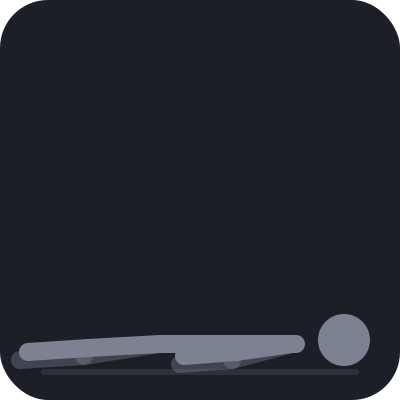
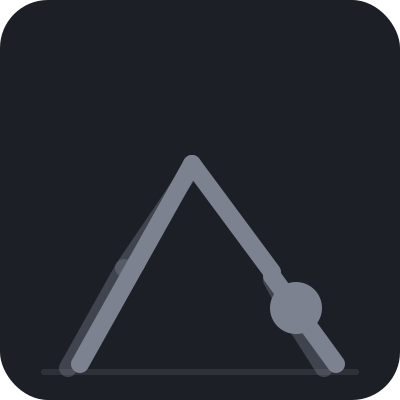
fix: cobra starts from downward dog instead of lying flat
Claude-Session: https://claude.ai/code/session_01NGkQYVtc2mDQ7rRHuHn9ix

Changed region(s): [[0.03, 0.39, 0.93, 0.96]]

diff --git a/sw.js b/sw.js
@@ -1,6 +1,6 @@
 // Precache the app shell and figures; serve same-origin GETs cache-first.
 // Bump VERSION on every deploy so old caches are replaced.
-const VERSION = "v1.3.0";
+const VERSION = "v1.3.1";
 const CACHE = `morningfit-${VERSION}`;
 const FIGURE_IDS = ["pushups", "jackknife", "situps", "prisoner_squeeze", "bird_dog", "superman", "cat_cow", "cobra", "cow_child", "squat_to_fold", "dog_lunge_rotation", "seated_side_stretch", "ninety_ninety", "kneeling_hip_flexor"];
 const FIGURES = FIGURE_IDS.flatMap(id => [`./assets/figures/${id}_relaxed.svg`, `./assets/figures/${id}_flexed.svg`]);

diff --git a/js/version.js b/js/version.js
@@ -1,3 +1,3 @@
 // The build the app reports on the Train page. Bump together with VERSION in sw.js —
 // test/version.test.js fails if the two drift, so the number on screen cannot lie.
-export const APP_VERSION = "v1.3.0";
+export const APP_VERSION = "v1.3.1";

diff --git a/tools/figures.py b/tools/figures.py
@@ -276,7 +276,7 @@ EXERCISES = [
     ("bird_dog",            "Bird dog",                  "strength", False, 60, 20, ALL_FOURS,           BIRD_DOG,         "Opposite arm and leg, hips level"),
     ("superman",            "Superman",                  "strength", False, 60, 20, PRONE,               SUPERMAN,         "Lift arms and legs, lower slowly"),
     ("cat_cow",             "Cat / cow",                 "stretch",  False, 60, 10, COW,                 CAT,              "Move with the breath"),
-    ("cobra",               "Cobra",                     "stretch",  False, 60, 10, PRONE,               COBRA,            "Hips down, shoulders away from ears"),
+    ("cobra",               "Cobra",                     "stretch",  False, 60, 10, DOWN_DOG,            COBRA,            "Hips down, shoulders away from ears"),
     ("cow_child",           "Cow child",                 "stretch",  False, 60, 10, CHILD,               COW,              "Sink hips to heels, then lift the chest"),
     ("squat_to_fold",       "Squat to fold",             "stretch",  False, 60, 10, SQUAT_ROTATION,      FORWARD_FOLD,     "Reach up in the squat, then hips up, hands down"),
     ("dog_lunge_rotation",  "Dog to lunge rotation",     "stretch",  False, 60, 10, DOWN_DOG,            LUNGE_ROTATION,   "Step the foot beside the hand, open to the sky"),
